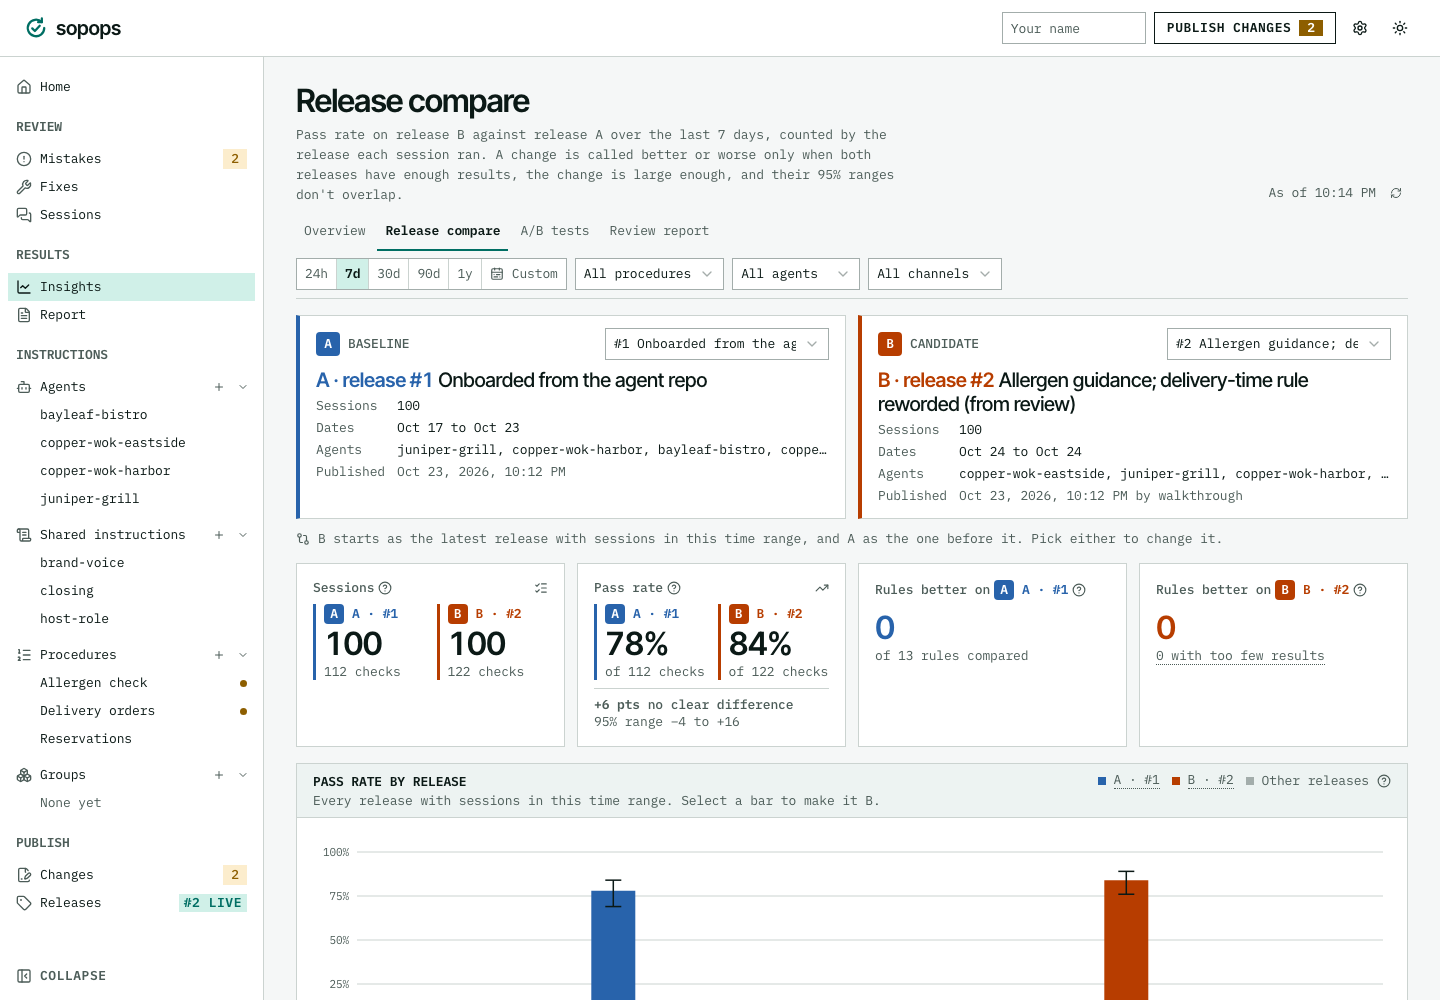
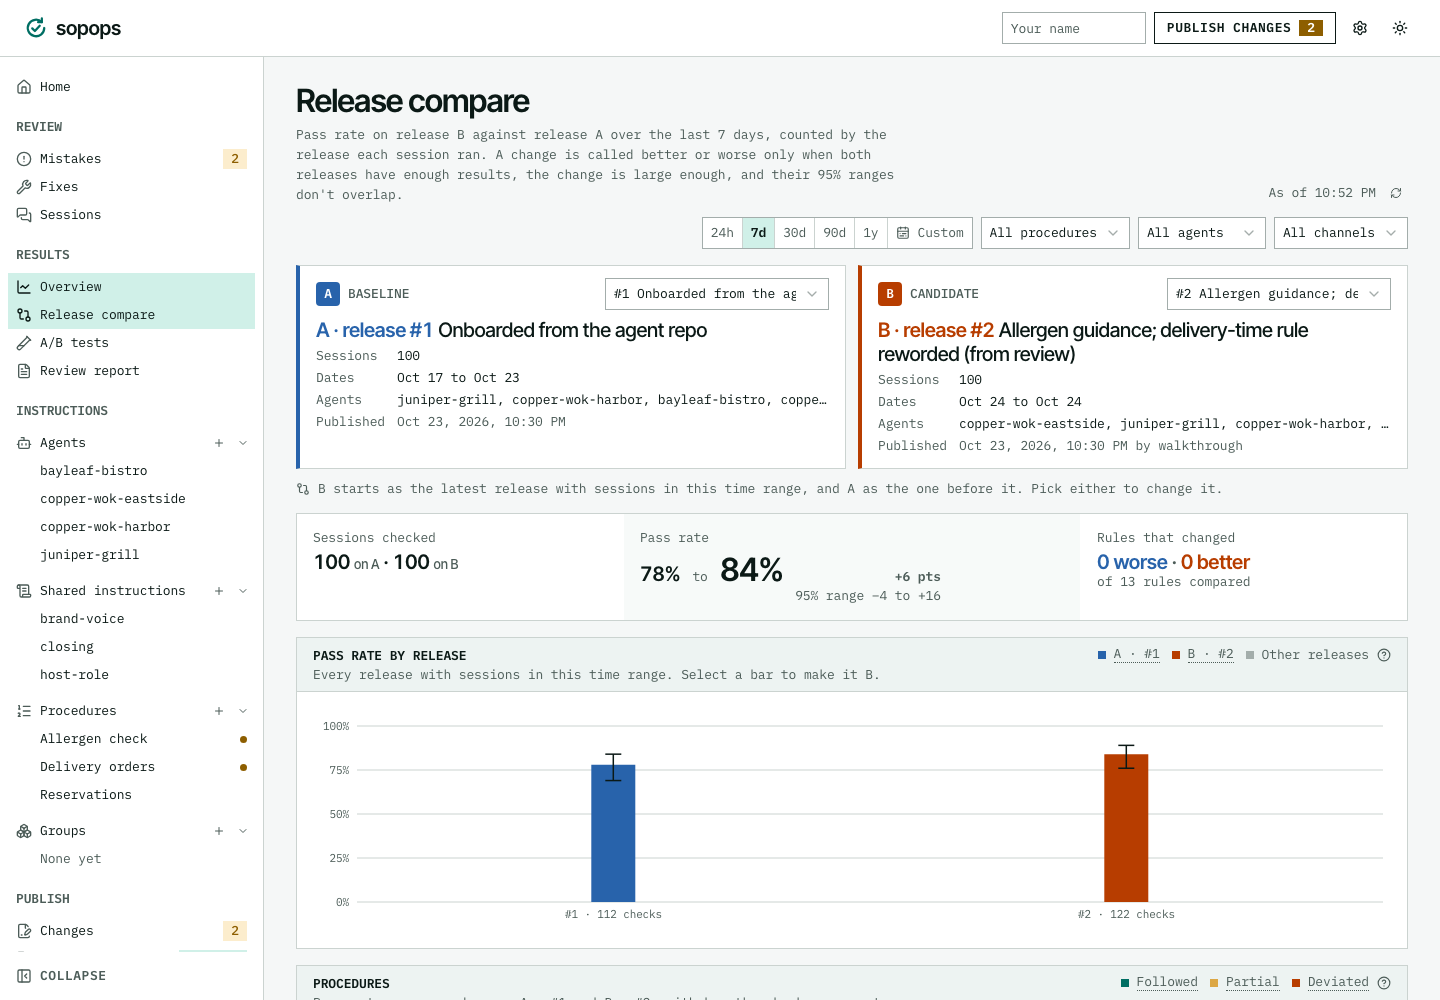
Clarify results navigation and walkthrough

diff --git a/web/src/components/insights/compare.tsx b/web/src/components/insights/compare.tsx
@@ -2,11 +2,11 @@
 // with its own color, used on every mark on the page), the top cards show A and B side by side with the change,
 // then pass rate on every release in the window, per procedure and per rule with n, 95% ranges and flags gated on min n.
 import { useQuery } from "@tanstack/react-query";
-import { GitCompare, ListChecks, TrendingUp } from "lucide-react";
+import { GitCompare } from "lucide-react";
 import { type ReactNode, useState } from "react";
 import type { CompareRate, CompareResponse, CompareRule, InsightFilters, RateOut } from "@/lib/api";
 import { q } from "@/lib/api";
-import { CHECK_DEF, SIDES, compareFlag, diffInterval, fmtDelta, fmtPct, insightsHref, ruleName, sessionsHref, signed, windowPhrase } from "@/lib/insights";
+import { SIDES, compareFlag, diffInterval, fmtDelta, fmtPct, insightsHref, ruleName, sessionsHref, signed, windowPhrase } from "@/lib/insights";
 import { when } from "@/lib/kinds";
 import { cn } from "@/lib/utils";
 import { useWs } from "@/lib/workspace";
@@ -67,31 +67,6 @@ function Change({ delta, range, flag, minN, points, an, bn, compact }: { delta: 
         )}
       </span>
     </Hint>
-  );
-}
-
-/** A top card: one measure for A and for B side by side, with the change under them when there is one. */
-function SideBySide({ label, help, a, b, aSub, bSub, change, icon: Icon, release }: { label: string; help: ReactNode; a: ReactNode; b: ReactNode; aSub?: ReactNode; bSub?: ReactNode; change?: ReactNode; icon: typeof ListChecks; release: { a: number; b: number } }) {
-  return (
-    <div className="bg-card min-w-0 rounded-lg border px-4 py-4">
-      <div className="mb-2 flex items-center justify-between gap-2">
-        <span className="text-muted-foreground inline-flex items-center gap-1 text-xs font-medium">
-          {label}
-          <Help text={help} />
-        </span>
-        <Icon className="text-muted-foreground size-3.5" />
-      </div>
-      <div className="grid grid-cols-2 gap-3">
-        {(["a", "b"] as const).map((s) => (
-          <div key={s} className="min-w-0 border-l-[3px] pl-2" style={{ borderColor: SIDES[s].color }}>
-            <SideName side={s} release={release[s]} className="text-xs" />
-            <div className="text-2xl font-semibold tabular-nums">{s === "a" ? a : b}</div>
-            {(s === "a" ? aSub : bSub) && <div className="text-muted-foreground text-xs">{s === "a" ? aSub : bSub}</div>}
-          </div>
-        ))}
-      </div>
-      {change && <div className="mt-2 border-t pt-2 text-xs">{change}</div>}
-    </div>
   );
 }
 
@@ -338,60 +313,27 @@ export function CompareView({ filters, onFilters, a, b, onPick }: { filters: Ins
               B starts as the latest release with sessions in this time range, and A as the one before it. Pick either to change it.
             </p>
             {d && ready ? (
-              <div className="grid gap-3 md:grid-cols-2 xl:grid-cols-4">
-                <SideBySide
-                  label="Sessions"
-                  icon={ListChecks}
-                  release={{ a: d.a as number, b: d.b as number }}
-                  a={d.sessions_a}
-                  b={d.sessions_b}
-                  aSub={`${ta.n} checks`}
-                  bSub={`${tb.n} checks`}
-                  help={`Checked sessions in this time range that ran each release. ${CHECK_DEF}`}
-                />
-                <SideBySide
-                  label="Pass rate"
-                  icon={TrendingUp}
-                  release={{ a: d.a as number, b: d.b as number }}
-                  a={fmtPct(ta.rate)}
-                  b={fmtPct(tb.rate)}
-                  aSub={`of ${ta.n} checks`}
-                  bSub={`of ${tb.n} checks`}
-                  change={<Change delta={overallDelta} range={overallDelta != null ? diffInterval(ta.passes, ta.n, tb.passes, tb.n) : null} flag={overallFlag} minN={minN} points={points} an={ta.n} bn={tb.n} />}
-                  help="Followed checks out of measurable checks on each release, every procedure pooled. Under it: B minus A in percentage points, with the 95% range of that change."
-                />
-                <div className="bg-card min-w-0 rounded-lg border px-4 py-4">
-                  <div className="mb-2 flex items-center justify-between gap-2">
-                    <span className="text-muted-foreground inline-flex items-center gap-1 text-xs font-medium">
-                      Rules better on <SideName side="a" release={d.a} />
-                      <Help text={`Steps and never rules at least ${points} points better on A than on B, with ${minN} or more results on each and 95% ranges that don't overlap.`} />
-                    </span>
+              <div className="bg-card grid gap-px overflow-hidden rounded-lg border md:grid-cols-[1fr_1.4fr_1fr]">
+                <div className="p-4">
+                  <div className="text-muted-foreground text-xs">Sessions checked</div>
+                  <div className="mt-1 text-xl font-semibold tabular-nums">{d.sessions_a} <span className="text-muted-foreground text-sm font-normal">on A</span> · {d.sessions_b} <span className="text-muted-foreground text-sm font-normal">on B</span></div>
+                </div>
+                <div className="bg-muted/30 p-4">
+                  <div className="text-muted-foreground text-xs">Pass rate</div>
+                  <div className="mt-1 flex flex-wrap items-baseline gap-x-3 gap-y-1 tabular-nums">
+                    <span className="text-xl font-semibold">{fmtPct(ta.rate)}</span>
+                    <span className="text-muted-foreground">to</span>
+                    <span className="text-2xl font-semibold">{fmtPct(tb.rate)}</span>
+                    <Change delta={overallDelta} range={overallDelta != null ? diffInterval(ta.passes, ta.n, tb.passes, tb.n) : null} flag={overallFlag} minN={minN} points={points} an={ta.n} bn={tb.n} compact />
                   </div>
-                  <div className="text-2xl font-semibold tabular-nums" style={{ color: SIDES.a.color }}>{flagged.filter((r) => r.flag === "regressed").length}</div>
+                </div>
+                <div className="p-4">
+                  <div className="text-muted-foreground text-xs">Rules that changed</div>
+                  <div className="mt-1 text-xl font-semibold tabular-nums"><span style={{ color: SIDES.a.color }}>{flagged.filter((r) => r.flag === "regressed").length} worse</span><span className="text-muted-foreground"> · </span><span style={{ color: SIDES.b.color }}>{flagged.filter((r) => r.flag === "improved").length} better</span></div>
                   <div className="text-muted-foreground text-xs">of {d.rules.length} rules compared</div>
                 </div>
-                <div className="bg-card min-w-0 rounded-lg border px-4 py-4">
-                  <div className="mb-2 flex items-center justify-between gap-2">
-                    <span className="text-muted-foreground inline-flex items-center gap-1 text-xs font-medium">
-                      Rules better on <SideName side="b" release={d.b} />
-                      <Help text={`Steps and never rules at least ${points} points better on B than on A, with ${minN} or more results on each and 95% ranges that don't overlap.`} />
-                    </span>
-                  </div>
-                  <div className="text-2xl font-semibold tabular-nums" style={{ color: SIDES.b.color }}>{flagged.filter((r) => r.flag === "improved").length}</div>
-                  <div className="text-muted-foreground text-xs">
-                    <Hint focusable={false} tip={`Rules with fewer than ${minN} results on a release can't be called better or worse yet.`}>
-                      <span className="cursor-help border-b border-dotted border-current">{d.rules.filter((r) => r.flag === "thin").length} with too few results</span>
-                    </Hint>
-                  </div>
-                </div>
               </div>
-            ) : (
-              <div className="grid gap-3 md:grid-cols-2 xl:grid-cols-4">
-                {[0, 1, 2, 3].map((i) => (
-                  <Skel key={i} className="h-32 rounded-lg" />
-                ))}
-              </div>
-            )}
+            ) : <Skel className="h-28 rounded-lg" />}
             <WidgetCard
               title="Pass rate by release"
               subtitle="Every release with sessions in this time range. Select a bar to make it B."

diff --git a/web/src/components/insights/scope.tsx b/web/src/components/insights/scope.tsx
@@ -3,11 +3,10 @@
 import { CalendarRange, RefreshCw } from "lucide-react";
 import { type ReactNode, useState } from "react";
 import { type InsightFilters, WINDOWS } from "@/lib/api";
-import { WINDOW_LABEL, WINDOW_SHORT, insightsHref } from "@/lib/insights";
+import { WINDOW_LABEL, WINDOW_SHORT } from "@/lib/insights";
 import { useRailCollapsed } from "@/lib/rail";
 import { cn } from "@/lib/utils";
 import { useWs } from "@/lib/workspace";
-import { HrefLink } from "../href-link";
 import { Button } from "../ui/button";
 import { Input } from "../ui/input";
 import { Popover, PopoverContent, PopoverTrigger } from "../ui/popover";
@@ -116,13 +115,6 @@ export function ScopeBar({ filters, onChange, procedure = true, release = true }
 
 export type View = "overview" | "releases" | "versions" | "report";
 
-const TABS: [View, string, string[]][] = [
-  ["overview", "Overview", ["insights"]],
-  ["releases", "Release compare", ["insights", "releases"]],
-  ["versions", "A/B tests", ["insights", "versions"]],
-  ["report", "Review report", ["report"]],
-];
-
 /** "As of 14:02 · refresh": presets end at now, and the page refetches every minute and on focus. */
 export function AsOf({ at, fetching, onRefresh }: { at: number; fetching: boolean; onRefresh: () => void }) {
   if (!at) return null;
@@ -138,7 +130,7 @@ export function AsOf({ at, fetching, onRefresh }: { at: number; fetching: boolea
 
 /** The top of every Insights view: title and subtitle, then the view tabs with the scope bar on the same row. */
 export function InsightsShell({
-  view,
+  view: _view,
   title,
   subtitle,
   filters,
@@ -156,9 +148,7 @@ export function InsightsShell({
   status?: ReactNode;
   children: ReactNode;
 }) {
-  const { ws } = useWs();
   const collapsed = useRailCollapsed();
-  const keep: InsightFilters = { ...filters };
   return (
     <div className={cn("max-w-[1320px] min-w-0", collapsed && "mx-auto")}>
       <div className="mb-3 flex flex-wrap items-end justify-between gap-2">
@@ -168,25 +158,8 @@ export function InsightsShell({
         </div>
         {status}
       </div>
-      <div className="mb-4 flex flex-wrap items-end justify-between gap-x-4 gap-y-2 border-b">
-        <nav className="-mb-px flex gap-1" aria-label="Insights views">
-          {TABS.map(([k, label, path]) => (
-            <HrefLink
-              key={k}
-              href={insightsHref(ws, path, keep)}
-              aria-current={k === view ? "page" : undefined}
-              className={cn(
-                "border-b-2 px-2 pt-1 pb-2 text-sm hover:no-underline",
-                k === view ? "border-primary text-foreground font-semibold" : "text-muted-foreground hover:text-foreground border-transparent",
-              )}
-            >
-              {label}
-            </HrefLink>
-          ))}
-        </nav>
-        <div className="pb-2">
-          <ScopeBar filters={filters} onChange={onFilters} {...scope} />
-        </div>
+      <div className="mb-4 flex flex-wrap justify-end gap-2">
+        <ScopeBar filters={filters} onChange={onFilters} {...scope} />
       </div>
       {children}
     </div>

diff --git a/web/src/components/layout.tsx b/web/src/components/layout.tsx
@@ -8,10 +8,11 @@ import {
   Bot,
   Boxes,
   ChartLine,
+  FileText,
   FilePenLine,
+  GitCompare,
   ChevronDown,
   Plus,
-  FileText,
   House,
   ListOrdered,
   type LucideIcon,
@@ -25,6 +26,7 @@ import {
   Settings,
   Sun,
   Tag as TagIcon,
+  TestTube2,
 } from "lucide-react";
 import { type ReactNode, useEffect, useRef, useState, useSyncExternalStore } from "react";
 import { type AuthState, q } from "@/lib/api";
@@ -486,8 +488,10 @@ export function Rail() {
           <RailItem collapsed={c} href={wsHref(ws, "sessions")} icon={MessagesSquare} label="Sessions" />
         </RailGroup>
         <RailGroup label="Results" collapsed={c}>
-          <RailItem collapsed={c} href={wsHref(ws, "insights")} icon={ChartLine} label="Insights" />
-          <RailItem collapsed={c} href={wsHref(ws, "report")} icon={FileText} label="Report" />
+          <RailItem collapsed={c} href={wsHref(ws, "insights")} icon={ChartLine} label="Overview" />
+          <RailItem collapsed={c} href={wsHref(ws, "insights", "releases")} icon={GitCompare} label="Release compare" />
+          <RailItem collapsed={c} href={wsHref(ws, "insights", "versions")} icon={TestTube2} label="A/B tests" />
+          <RailItem collapsed={c} href={wsHref(ws, "report")} icon={FileText} label="Review report" />
         </RailGroup>
         <RailGroup label="Instructions" collapsed={c}>
           {list("agent", "Agents", cfg.agents.map((a) => ({ id: a.id, label: a.id })), agentsActive)}

diff --git a/web/src/components/home.tsx b/web/src/components/home.tsx
@@ -130,7 +130,7 @@ function Fixed() {
   const loading = !fixes || compares.some((c) => c.isPending);
 
   return (
-    <Block title="What the fixes did" aside={<HrefLink href={wsHref(ws, "insights")} className="t-label text-foreground">Insights →</HrefLink>} >
+    <Block title="What the fixes did" aside={<HrefLink href={wsHref(ws, "insights")} className="t-label text-foreground">Results →</HrefLink>} >
       <dl className="grid grid-cols-3 border-b">
         {(
           [
@@ -288,7 +288,7 @@ function MissRate() {
   const before = t?.prior;
   const delta = t?.delta_points.need_attention_pct;
   return (
-    <Block title="Missed this week" aside={<HrefLink href={wsHref(ws, "insights")} className="t-label text-foreground">Insights →</HrefLink>} className="lg:col-span-5">
+    <Block title="Missed this week" aside={<HrefLink href={wsHref(ws, "insights")} className="t-label text-foreground">Results →</HrefLink>} className="lg:col-span-5">
       <div className="px-4 py-4">
         {!now ? (
           <Note>{res.error ? "Insights didn't load." : "Loading…"}</Note>

diff --git a/web/src/components/insights/procedure.tsx b/web/src/components/insights/procedure.tsx
@@ -294,7 +294,7 @@ export function ProcedureInsightsView({ id, filters, onFilters }: { id: string; 
   const noChecks = !!d && d.tiles.current.checks === 0;
   return (
     <div className="max-w-[1320px] min-w-0">
-      <BackBar href={insightsHref(ws, ["insights"], filters)} label="Insights" filters={filters} onFilters={onFilters} status={<AsOf at={res.dataUpdatedAt} fetching={res.isFetching} onRefresh={() => void res.refetch()} />} />
+      <BackBar href={insightsHref(ws, ["insights"], filters)} label="Results" filters={filters} onFilters={onFilters} status={<AsOf at={res.dataUpdatedAt} fetching={res.isFetching} onRefresh={() => void res.refetch()} />} />
       <div className="grid gap-4">
         <section className="bg-card flex flex-wrap items-start justify-between gap-4 rounded-lg border px-4 py-4">
           {!d && res.isPending ? (

diff --git a/web/src/components/insights/overview.tsx b/web/src/components/insights/overview.tsx
@@ -383,7 +383,7 @@ export function OverviewView({ filters, onFilters }: { filters: InsightFilters; 
   return (
     <InsightsShell
       view="overview"
-      title="Insights"
+      title="Results"
       subtitle={<>How sessions went against your procedures over {windowPhrase(filters)}, compared with the same length of time just before. Select a number to open the sessions behind it.</>}
       filters={filters}
       onFilters={onFilters}
@@ -391,7 +391,7 @@ export function OverviewView({ filters, onFilters }: { filters: InsightFilters; 
     >
       <div className="grid gap-4">
         {res.error && !d ? (
-          <WidgetCard title="Insights" {...shared} />
+          <WidgetCard title="Results" {...shared} />
         ) : (
           <>
             <TilesRow tiles={d?.tiles} scope={scope} loading={res.isPending} />

diff --git a/web/src/components/insights/rule.tsx b/web/src/components/insights/rule.tsx
@@ -44,7 +44,7 @@ export function RuleInsightsView({ procedureId, ruleId, filters, onFilters }: { 
       <div className="grid gap-4">
         <section className="bg-card rounded-lg border px-4 py-4">
           <div className="text-muted-foreground text-xs">
-            <HrefLink href={insightsHref(ws, ["insights"], filters)}>Insights</HrefLink> / <HrefLink href={insightsHref(ws, ["insights", "procedures", procedureId], filters)}>{procName}</HrefLink>
+            <HrefLink href={insightsHref(ws, ["insights"], filters)}>Results</HrefLink> / <HrefLink href={insightsHref(ws, ["insights", "procedures", procedureId], filters)}>{procName}</HrefLink>
           </div>
           <div className="mt-1 flex flex-wrap items-center gap-2">
             <h1 className="text-lg font-semibold">{d ? ruleName(d.kind, d.index) : "Rule"}</h1>

diff --git a/web/src/components/insights/kit.tsx b/web/src/components/insights/kit.tsx
@@ -202,7 +202,7 @@ export function Kpi({
 }: {
   label: string;
   value: ReactNode;
-  /** A small mark in the tile's top-right corner, in the figure's color. */
+  /** A small mark beside the label, in the figure's color. */
   icon?: LucideIcon;
   accent?: keyof typeof ACCENT;
   help: ReactNode;
@@ -222,8 +222,8 @@ export function Kpi({
         </div>
         {Icon && (
           <span
-            className="grid size-8 shrink-0 place-items-center"
-            style={{ background: `color-mix(in oklch, ${ACCENT[accent]} 14%, transparent)`, color: ACCENT[accent] }}
+            className="mt-0.5 shrink-0"
+            style={{ color: ACCENT[accent] }}
             aria-hidden
           >
             <Icon className="size-4" strokeWidth={2.25} />

diff --git a/web/src/components/insights/charts.tsx b/web/src/components/insights/charts.tsx
@@ -100,7 +100,7 @@ export function ProblemsChart({ problems, problemHref }: { problems: Problem[]; 
   const go = useGo();
   const color = (p: Problem) => (p.type === "skipped" || p.type === "never" ? "var(--o-deviated)" : "var(--o-partial)");
   return (
-    <div className="h-52">
+    <div className="h-52 pl-2" data-ui>
       <ResponsiveContainer width="100%" height="100%">
         <BarChart data={problems.map((p) => ({ ...p, lbl: `${p.checks} · ${fmtPct(p.pct)}` }))} layout="vertical" margin={{ top: 0, right: 64, bottom: 0, left: 0 }}>
           <XAxis type="number" hide domain={[0, "dataMax"]} />

diff --git a/docs/first-agent.md b/docs/first-agent.md
@@ -92,13 +92,20 @@ confirms that it sent and checked 200 earlier calls against release 1:
 checked: 200 checked
 ```
 
-Open `http://127.0.0.1:8585/w/walkthrough/report`. The report shows each call,
-the rule it missed, and the quote that led to the result. In **Patterns**, one
-allergen rule separates into failures such as a promise that a dish is safe and
-a claim that a kitchen is allergen-free.
+Open `http://127.0.0.1:8585/w/walkthrough/insights`. **Overview** shows the
+measured result first. Use it to find a change that needs attention or a
+release worth comparing.
 
-![The walkthrough report groups checked calls by procedure and shows the count
-of sessions that followed, partially followed, or deviated from each one.](images/walkthrough-report.png)
+![The Results overview shows the checked sessions, pass rate, notable changes,
+and the procedures behind them.](images/walkthrough-results-overview.png)
+
+Open **Review report** in the Results sidebar for the evidence. It groups the
+findings by procedure and shows the sessions, rule, and quote that produced
+each one. In **Patterns**, one allergen rule separates into failures such as a
+promise that a dish is safe and a claim that a kitchen is allergen-free.
+
+![The Review report groups checked calls by procedure and shows the count of
+sessions that followed, partially followed, or deviated from each one.](images/walkthrough-review-report.png)
 
 ## A review turns two findings into release 2
 
@@ -142,6 +149,13 @@ its acceptable findings stay out of the pass rate.
 
 ![The walkthrough release comparison shows release 1 and release 2 beside a
 pass-rate chart and a procedure-by-procedure comparison.](images/walkthrough-release-compare.png)
+
+**A/B tests** in the Results sidebar is for intentional split traffic. The demo
+does not split calls, but this view lets you choose versions of the same agent
+before you compare them.
+
+![The A/B tests view lists versions you can select for a controlled
+comparison.](images/walkthrough-ab-tests.png)
 
 Stop the server with Ctrl-C when you finish. The tutorial stores data in
 `examples/walkthrough/out/`; run `just examples/walkthrough/clean` to remove it.
